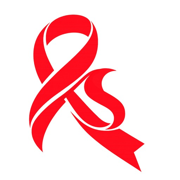
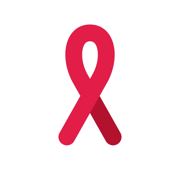
Ganti identitas KITA SEBAYA menjadi SIRASA
- SIRASA adalah program tersendiri (KITA SEBAYA ada di repo lain):
  judul halaman, wordmark, manifest aplikasi, teks admin, README, SQL
- Logo baru: pita peduli HIV (logo-sirasa.svg) + ikon aplikasi baru;
  logo "KS" milik KITA SEBAYA tidak dipakai lagi
- Hapus CNAME yang berisi domain kitasebaya.biz.id (milik program lain)

Changed region(s): [[0.1389, 0.0556, 0.8056, 0.9444], [0.7778, 0.9444, 0.8056, 0.9722]]

diff --git a/dashboard.html b/dashboard.html
@@ -7,11 +7,11 @@
     <meta name="mobile-web-app-capable" content="yes">
     <meta name="apple-mobile-web-app-capable" content="yes">
     <meta name="apple-mobile-web-app-status-bar-style" content="black-translucent">
-    <meta name="apple-mobile-web-app-title" content="KITA SEBAYA">
+    <meta name="apple-mobile-web-app-title" content="SIRASA">
     <link rel="manifest" href="manifest.webmanifest">
     <link rel="icon" href="assets/icon-192.png">
     <link rel="apple-touch-icon" href="assets/apple-touch-icon.png">
-    <title>Galeri Modul KITA SEBAYA</title>
+    <title>Galeri Modul SIRASA</title>
     <script src="https://cdn.tailwindcss.com"></script>
     <link rel="stylesheet" href="https://cdnjs.cloudflare.com/ajax/libs/font-awesome/6.4.0/css/all.min.css">
     <script src="https://code.jquery.com/jquery-3.6.0.min.js"></script>
@@ -65,8 +65,8 @@
             <div class="relative z-10 px-5 pt-5 pb-24 flex items-end justify-between">
                 <div class="max-w-[58%] pb-2">
                     <div class="flex items-center gap-2 mb-2">
-                        <div class="w-9 h-9 bg-white rounded-xl p-1 shadow"><img src="assets/logo-ks.png" alt="" class="w-full h-full object-contain"></div>
-                        <span class="font-black text-xl tracking-tight">KITA <span class="text-sky-300">SEBAYA</span></span>
+                        <div class="w-9 h-9 bg-white rounded-xl p-1 shadow"><img src="assets/logo-sirasa.svg" alt="" class="w-full h-full object-contain"></div>
+                        <span class="font-black text-xl tracking-tight">SI<span class="text-sky-300">RASA</span></span>
                     </div>
                     <p class="text-[11px] leading-snug text-sky-50/90">Selesaikan misi modul &amp; kumpulkan XP. Jadilah agen peduli kesehatan!</p>
                 </div>
@@ -155,7 +155,7 @@
             <div class="grid grid-cols-3 items-end h-16 max-w-md mx-auto">
                 <a href="dashboard.html" class="nav-item aktif app-tap flex flex-col items-center justify-center gap-1 pb-2 text-[11px] font-bold"><i class="fa-solid fa-house text-lg"></i>Beranda</a>
                 <div class="flex flex-col items-center">
-                    <button onclick="lanjutBelajar()" class="app-fab app-tap" aria-label="Lanjut belajar"><img src="assets/logo-ks.png" alt="" class="w-9 h-9 object-contain brightness-0 invert"></button>
+                    <button onclick="lanjutBelajar()" class="app-fab app-tap" aria-label="Lanjut belajar"><img src="assets/logo-sirasa.svg" alt="" class="w-9 h-9 object-contain brightness-0 invert"></button>
                     <span class="text-[10px] font-bold text-[#1769b3] mt-0.5 pb-1.5">Belajar</span>
                 </div>
                 <a href="profil.html" class="nav-item app-tap flex flex-col items-center justify-center gap-1 pb-2 text-[11px] font-bold"><i class="fa-solid fa-chart-simple text-lg"></i>Rapor</a>
@@ -171,7 +171,7 @@
         <div class="flex items-center gap-6">
             <div class="flex items-center gap-3 cursor-pointer group" onclick="window.location.reload()">
                 <div class="w-10 h-10 bg-teal-600 text-white rounded-lg flex items-center justify-center text-xl shadow-md shadow-teal-500/20 group-hover:-rotate-6 transition transform"><i class="fa-solid fa-ribbon"></i></div>
-                <h1 class="text-xl font-black text-slate-800 tracking-tight hidden sm:block">KITA <span class="text-teal-600">SEBAYA</span></h1>
+                <h1 class="text-xl font-black text-slate-800 tracking-tight hidden sm:block">SI<span class="text-teal-600">RASA</span></h1>
             </div>
          </div>
         <div id="user-menu-container" class="transition-opacity duration-500"></div>
@@ -338,7 +338,7 @@
             const nama = profil?.nama_lengkap || 'Responden';
             const xp = profil?.total_poin || 0;
             document.getElementById('m-sapaan').textContent = nama.split(' ').slice(0, 2).join(' ');
-            document.getElementById('m-subjudul').textContent = [profil?.sekolah, profil?.kelas].filter(Boolean).join(' · ') || 'Agen Peduli KITA SEBAYA';
+            document.getElementById('m-subjudul').textContent = [profil?.sekolah, profil?.kelas].filter(Boolean).join(' · ') || 'Agen Peduli SIRASA';
             document.getElementById('m-avatar').textContent = nama.charAt(0).toUpperCase();
             document.getElementById('m-xp').textContent = xp.toLocaleString('id-ID');
             const level = [...LEVEL_XP].reverse().find(l => xp >= l.min);

diff --git a/index.html b/index.html
@@ -7,11 +7,11 @@
     <meta name="mobile-web-app-capable" content="yes">
     <meta name="apple-mobile-web-app-capable" content="yes">
     <meta name="apple-mobile-web-app-status-bar-style" content="black-translucent">
-    <meta name="apple-mobile-web-app-title" content="KITA SEBAYA">
+    <meta name="apple-mobile-web-app-title" content="SIRASA">
     <link rel="manifest" href="manifest.webmanifest">
     <link rel="icon" href="assets/icon-192.png">
     <link rel="apple-touch-icon" href="assets/apple-touch-icon.png">
-    <title>KITA SEBAYA - Edukasi Pencegahan HIV/AIDS</title>
+    <title>SIRASA - Edukasi Pencegahan HIV/AIDS</title>
     
     <script src="https://cdn.tailwindcss.com"></script>
     <link rel="stylesheet" href="https://cdnjs.cloudflare.com/ajax/libs/font-awesome/6.4.0/css/all.min.css">
@@ -38,8 +38,8 @@
 
         <div class="relative z-10 px-6 pt-5 app-safe-top flex items-center justify-between">
             <div class="flex items-center gap-2.5 mt-3">
-                <div class="w-10 h-10 bg-white rounded-xl p-1 shadow-lg"><img src="assets/logo-ks.png" alt="" class="w-full h-full object-contain"></div>
-                <span class="font-black text-lg tracking-tight">KITA <span class="text-sky-300">SEBAYA</span></span>
+                <div class="w-10 h-10 bg-white rounded-xl p-1 shadow-lg"><img src="assets/logo-sirasa.svg" alt="" class="w-full h-full object-contain"></div>
+                <span class="font-black text-lg tracking-tight">SI<span class="text-sky-300">RASA</span></span>
             </div>
             <button onclick="bukaModalAuth('login')" class="app-tap mt-3 text-xs font-bold bg-white/10 border border-white/20 backdrop-blur px-4 py-2 rounded-full">Masuk</button>
         </div>
@@ -75,7 +75,7 @@
                 <div class="w-10 h-10 bg-gradient-to-br from-teal-500 to-teal-700 text-white rounded-full flex items-center justify-center text-xl shadow-md group-hover:rotate-12 transition-all duration-300">
                     <i class="fa-solid fa-ribbon"></i>
                 </div>
-                <h1 class="text-2xl font-black text-slate-800 tracking-tight font-sans">KITA <span class="text-teal-600">SEBAYA</span></h1>
+                <h1 class="text-2xl font-black text-slate-800 tracking-tight font-sans">SI<span class="text-teal-600">RASA</span></h1>
             </div>
         </div>
         <div>
@@ -121,7 +121,7 @@
 
     <section class="bg-white border-y border-slate-100 py-20 md:py-28 relative z-20">
         <div class="max-w-[1200px] mx-auto px-6">
-            <h2 class="text-3xl md:text-4xl font-black text-center text-slate-800 mb-16 tracking-tight">Kenapa Harus <span class="text-teal-600">KITA SEBAYA?</span></h2>
+            <h2 class="text-3xl md:text-4xl font-black text-center text-slate-800 mb-16 tracking-tight">Kenapa Harus <span class="text-teal-600">SIRASA?</span></h2>
             
             <div class="grid grid-cols-1 md:grid-cols-2 lg:grid-cols-4 gap-8">
                 <div class="bg-slate-50 p-6 rounded-2xl border border-slate-100 hover:border-teal-200 transition-colors group">
@@ -149,7 +149,7 @@
     </section>
 
     <footer class="bg-slate-900 py-8 text-center mt-auto">
-        <p class="text-slate-400 text-sm font-medium">© 2026 KITA SEBAYA. Dibangun untuk mengedukasi generasi peduli kesehatan.</p>
+        <p class="text-slate-400 text-sm font-medium">© 2026 SIRASA. Dibangun untuk mengedukasi generasi peduli kesehatan.</p>
     </footer>
     </div>
 

diff --git a/admin.html b/admin.html
@@ -3,7 +3,7 @@
 <head>
     <meta charset="UTF-8">
     <meta name="viewport" content="width=device-width, initial-scale=1.0">
-    <title>Admin Panel - KITA SEBAYA Edukasi</title>
+    <title>Admin Panel - SIRASA Edukasi</title>
     
     <script src="https://cdn.tailwindcss.com"></script>
     <link rel="stylesheet" href="https://cdnjs.cloudflare.com/ajax/libs/font-awesome/6.4.0/css/all.min.css">
@@ -30,7 +30,7 @@
     
     <aside id="sidebar" class="w-64 md:w-0 bg-slate-900 text-slate-300 flex flex-col absolute md:relative z-50 h-full flex-shrink-0 overflow-hidden -translate-x-full md:translate-x-0 transition-all duration-300 shadow-xl md:shadow-none">
         <div class="h-16 flex items-center justify-between px-6 bg-slate-950 text-white font-bold text-xl tracking-wide border-b border-slate-800 min-w-[256px]">
-            <div><i class="fa-solid fa-ribbon text-rose-500 mr-2"></i> Admin KITA SEBAYA</div>
+            <div><i class="fa-solid fa-ribbon text-rose-500 mr-2"></i> Admin SIRASA</div>
             <button onclick="toggleSidebar()" class="md:hidden text-slate-400 hover:text-white"><i class="fa-solid fa-xmark"></i></button>
         </div>
         <nav class="flex-1 px-4 py-6 space-y-2 overflow-y-auto min-w-[256px]">
@@ -46,7 +46,7 @@
     <div class="flex-1 flex flex-col h-full overflow-hidden relative">
         <header class="bg-white h-16 border-b border-slate-200 flex items-center px-6 shrink-0 z-10 shadow-sm">
             <button onclick="toggleSidebar()" class="text-slate-500 hover:text-rose-600 transition p-2 bg-slate-100 rounded-lg"><i class="fa-solid fa-bars text-xl"></i></button>
-            <h1 class="ml-4 font-bold text-slate-700 hidden sm:block">Panel Peneliti - KITA SEBAYA</h1>
+            <h1 class="ml-4 font-bold text-slate-700 hidden sm:block">Panel Peneliti - SIRASA</h1>
             <div class="ml-auto flex items-center gap-3">
                 <div class="text-right hidden sm:block">
                     <p id="admin-nama" class="text-sm font-bold text-slate-700 leading-tight">Admin</p>
@@ -387,7 +387,7 @@
             wadah.innerHTML = '';
             
             let slides = [
-                {judul: "Pahami Virusnya, Jauhi Penyakitnya", desc: "Tinggalkan cara belajar yang membosankan. Platform KITA SEBAYA menyajikan materi dengan modul interaktif yang menyenangkan."},
+                {judul: "Pahami Virusnya, Jauhi Penyakitnya", desc: "Tinggalkan cara belajar yang membosankan. Platform SIRASA menyajikan materi dengan modul interaktif yang menyenangkan."},
                 {judul: "Kerjakan Pre-Test & Post-Test", desc: "Ukur seberapa jauh pemahaman Anda sebelum dan sesudah membaca modul yang disediakan."},
                 {judul: "Sistem Peringkat & Gamifikasi", desc: "Setiap evaluasi yang berhasil Anda kerjakan dengan baik akan diakumulasi menjadi poin. Raih peringkat teratas!"}
             ];

diff --git a/profil.html b/profil.html
@@ -10,7 +10,7 @@
     <link rel="manifest" href="manifest.webmanifest">
     <link rel="icon" href="assets/icon-192.png">
     <link rel="apple-touch-icon" href="assets/apple-touch-icon.png">
-    <title>Profil & Rapor Belajar - KITA SEBAYA</title>
+    <title>Profil & Rapor Belajar - SIRASA</title>
     
     <script src="https://cdn.tailwindcss.com"></script>
     <link rel="stylesheet" href="https://cdnjs.cloudflare.com/ajax/libs/font-awesome/6.4.0/css/all.min.css">
@@ -134,7 +134,7 @@
         <div class="grid grid-cols-3 items-end h-16 max-w-md mx-auto">
             <a href="dashboard.html" class="nav-item app-tap flex flex-col items-center justify-center gap-1 pb-2 text-[11px] font-bold"><i class="fa-solid fa-house text-lg"></i>Beranda</a>
             <div class="flex flex-col items-center">
-                <a href="dashboard.html" class="app-fab app-tap" aria-label="Kembali belajar"><img src="assets/logo-ks.png" alt="" class="w-9 h-9 object-contain brightness-0 invert"></a>
+                <a href="dashboard.html" class="app-fab app-tap" aria-label="Kembali belajar"><img src="assets/logo-sirasa.svg" alt="" class="w-9 h-9 object-contain brightness-0 invert"></a>
                 <span class="text-[10px] font-bold text-[#1769b3] mt-0.5 pb-1.5">Belajar</span>
             </div>
             <a href="profil.html" class="nav-item aktif app-tap flex flex-col items-center justify-center gap-1 pb-2 text-[11px] font-bold"><i class="fa-solid fa-chart-simple text-lg"></i>Rapor</a>
@@ -142,7 +142,7 @@
     </nav>
 
     <footer class="hidden md:block bg-white border-t border-slate-200 mt-auto py-8 text-center">
-        <p class="text-slate-500 text-sm font-medium">© 2026 KITA SEBAYA. Dibangun untuk mengedukasi generasi peduli kesehatan.</p>
+        <p class="text-slate-500 text-sm font-medium">© 2026 SIRASA. Dibangun untuk mengedukasi generasi peduli kesehatan.</p>
     </footer>
 
     <div id="modalEditProfil" class="hidden fixed inset-0 bg-slate-900/60 backdrop-blur-sm z-[100] flex items-end md:items-center justify-center p-0 md:p-4">

diff --git a/analitik.html b/analitik.html
@@ -3,7 +3,7 @@
 <head>
     <meta charset="UTF-8">
     <meta name="viewport" content="width=device-width, initial-scale=1.0">
-    <title>Dasbor Analitik - KITA SEBAYA</title>
+    <title>Dasbor Analitik - SIRASA</title>
     
     <script src="https://cdn.tailwindcss.com"></script>
     <link rel="stylesheet" href="https://cdnjs.cloudflare.com/ajax/libs/font-awesome/6.4.0/css/all.min.css">
@@ -29,7 +29,7 @@
         
         <div class="mb-4">
             <h2 class="text-2xl font-bold text-slate-800"><i class="fa-solid fa-chart-simple text-slate-600 mr-2"></i> Dasbor Analitik Riset Terpadu</h2>
-            <p class="text-sm text-slate-500">Pusat komando evaluasi data responden platform KITA SEBAYA.</p>
+            <p class="text-sm text-slate-500">Pusat komando evaluasi data responden platform SIRASA.</p>
         </div>
 
         <!-- FILTER GLOBAL (KOTA & TANGGAL) -->
@@ -549,7 +549,7 @@
             const ws = XLSX.utils.json_to_sheet(globalMasterExportData); 
             const wb = XLSX.utils.book_new(); 
             XLSX.utils.book_append_sheet(wb, ws, "SPSS_Master_Data"); 
-            XLSX.writeFile(wb, "KITA_SEBAYA_SPSS_Export.xlsx"); 
+            XLSX.writeFile(wb, "SIRASA_SPSS_Export.xlsx"); 
         }
     </script>
 </body>

diff --git a/admin-login.html b/admin-login.html
@@ -4,7 +4,7 @@
     <meta charset="UTF-8">
     <meta name="viewport" content="width=device-width, initial-scale=1.0">
     <meta name="robots" content="noindex, nofollow">
-    <title>Login Admin - KITA SEBAYA</title>
+    <title>Login Admin - SIRASA</title>
 
     <script src="https://cdn.tailwindcss.com"></script>
     <link rel="stylesheet" href="https://cdnjs.cloudflare.com/ajax/libs/font-awesome/6.4.0/css/all.min.css">
@@ -30,7 +30,7 @@
                     <i class="fa-solid fa-user-shield"></i>
                 </div>
                 <h1 class="text-2xl font-black">Panel Peneliti</h1>
-                <p class="text-slate-400 text-sm mt-1">Masuk dengan akun admin <span class="font-bold text-white">KITA <span class="text-rose-500">SEBAYA</span></span>.</p>
+                <p class="text-slate-400 text-sm mt-1">Masuk dengan akun admin <span class="font-bold text-white">SI<span class="text-rose-500">RASA</span></span>.</p>
             </div>
 
             <form id="form-login" class="p-8 space-y-4" onsubmit="event.preventDefault(); prosesLoginAdmin();">

diff --git a/dashpivot.html b/dashpivot.html
@@ -3,7 +3,7 @@
 <head>
     <meta charset="UTF-8">
     <meta name="viewport" content="width=device-width, initial-scale=1.0">
-    <title>Rekap Kuis (Pivot) - KITA SEBAYA</title>
+    <title>Rekap Kuis (Pivot) - SIRASA</title>
     <script src="https://cdn.tailwindcss.com"></script>
     <script src="https://cdnjs.cloudflare.com/ajax/libs/xlsx/0.18.5/xlsx.full.min.js"></script>
     <script src="https://cdn.jsdelivr.net/npm/@supabase/supabase-js@2"></script>

diff --git a/buku.html b/buku.html
@@ -3,7 +3,7 @@
 <head>
     <meta charset="UTF-8">
     <meta name="viewport" content="width=device-width, initial-scale=1.0">
-    <title>Ruang Belajar & Evaluasi - KITA SEBAYA</title>
+    <title>Ruang Belajar & Evaluasi - SIRASA</title>
 
     <script src="https://cdn.tailwindcss.com"></script>
     <link rel="stylesheet" href="https://cdnjs.cloudflare.com/ajax/libs/font-awesome/6.4.0/css/all.min.css">

diff --git a/README.md b/README.md
@@ -1,6 +1,6 @@
-# KITA SEBAYA — Platform Edukasi Pencegahan HIV/AIDS
+# SIRASA — Platform Edukasi Pencegahan HIV/AIDS
 
-Situs statis (GitHub Pages, domain `kitasebaya.biz.id`) dengan backend **Supabase** (Auth, Database, Storage).
+Situs statis (GitHub Pages: https://gomesnopes.github.io/sirasa/) dengan backend **Supabase** (Auth, Database, Storage).
 Tidak ada proses build — semua halaman adalah HTML + Tailwind CDN + JavaScript biasa.
 
 ## Struktur Halaman
@@ -73,8 +73,9 @@ dengan tombol tengah "Belajar" (membuka misi berikutnya yang belum selesai). Tam
    memverifikasi JWT pemanggil dan `is_admin()`, atau minimal cek token rahasia + validasi admin di GAS.
 3. **Poin/XP dihitung di browser** (`buku.html` mengubah `profiles.total_poin` langsung) sehingga bisa dimanipulasi.
    Pindahkan perhitungan skor ke fungsi database (RPC) yang membaca kunci jawaban di server.
-4. **Gambar**: halaman kini memakai versi ringan (`assets/hero.png`, `hero-mobile.png`, `logo-ks.png`, ikon).
-   File asli `img.png` (5,8 MB) & `kitasebaya.png` (1,8 MB) disimpan sebagai master dan tidak dimuat halaman mana pun.
+4. **Gambar**: halaman kini memakai versi ringan (`assets/hero.png`, `hero-mobile.png`, `logo-sirasa.svg`, ikon).
+   File asli `img.png` (5,8 MB) disimpan sebagai master dan tidak dimuat halaman mana pun.
+   `kitasebaya.png` adalah logo program KITA SEBAYA (platform lain) — tidak dipakai di SIRASA.
 5. **Tailwind CDN** (`cdn.tailwindcss.com`) tidak disarankan untuk produksi (lambat, peringatan di konsol).
    Pertimbangkan build Tailwind CLI sekali jadi `styles.css`.
 6. **Satukan kode yang berulang**: inisialisasi Supabase, fungsi upload PDF+sampul (ada 2 salinan di `admin.html`),
